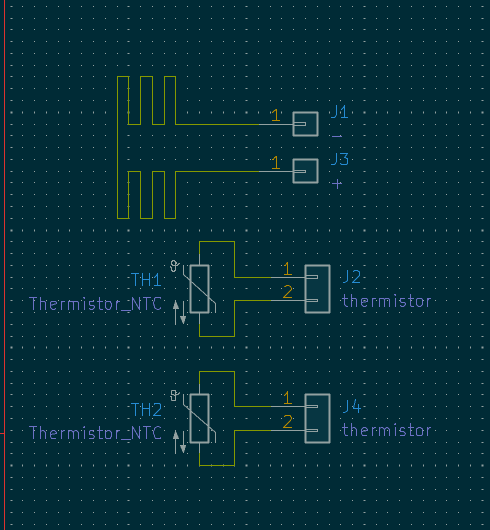
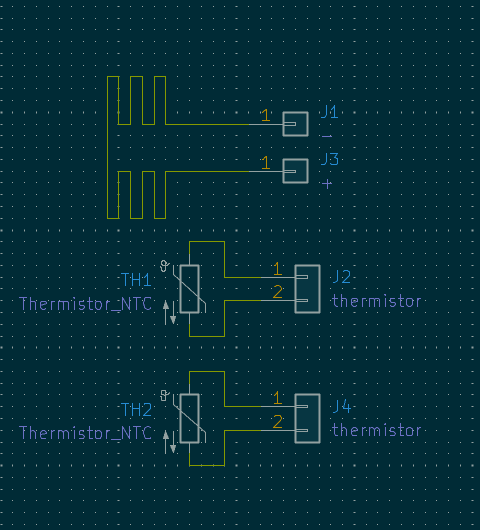
images

diff --git a/README.md b/README.md
@@ -40,7 +40,7 @@ Code to-do-list:
     - [Features](#features)
     - [Design Issues](#design-issues)
     - [Firmware](#firmware)
-    - [PCB](#pcb)
+    - [PCB Design](#pcb-design)
     - [Specification](#specification)
 - [Make your own!](#make-your-own)
     - [Bill of materials](#bill-of-materials)
@@ -103,12 +103,9 @@ dodgy pin on layer 4 of the extender
 
 <br clear="all">
 
-### PCB:
+### PCB Design:
 
-<br clear="all">
-<img src="Pictures\PCB\main_schematic3.png" alt="Image of main PCB Circuit" />
-<br clear="all">
-
+<img src="Pictures\PCB\main_schematic3.png" alt="Image of main PCB Circuit" width=520/> <img src="Pictures\PCB\flex_heater_schematic.png" alt="Image of main PCB Circuit" width=274/>
 
 ***Note**: Most of these component choices are based on the lowest possible cost/ease of assembly at home. Not efficiency. Feel free to modify the PCB*
 
